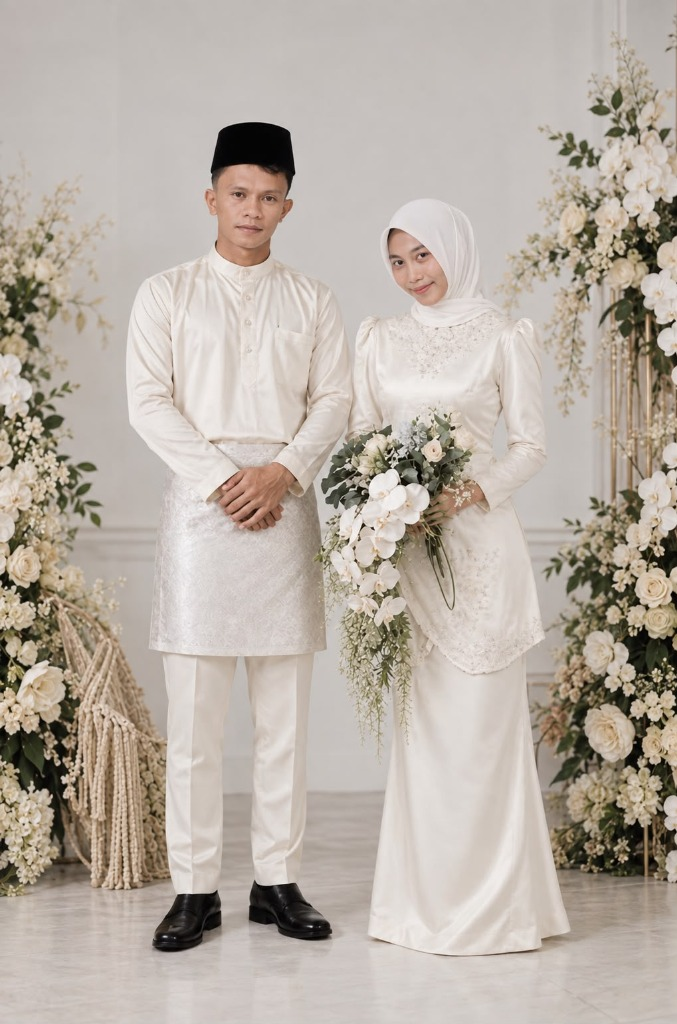
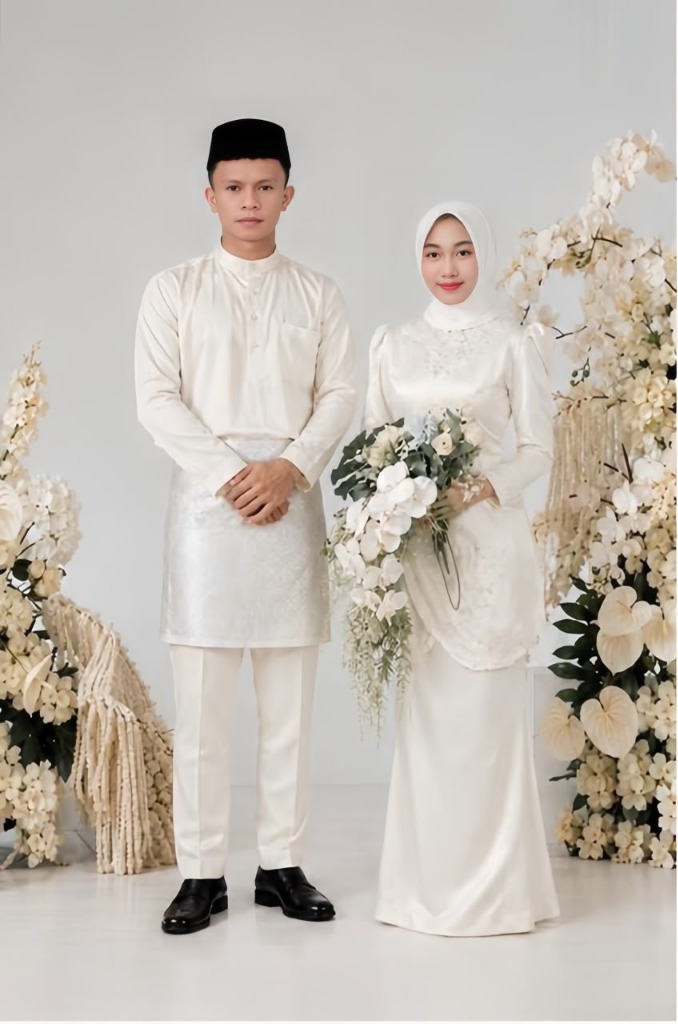
fix: replace couple photos with updated upright standing photo in quote, gallery, and love story sections

diff --git a/index.html b/index.html
@@ -170,7 +170,7 @@
 	<link rel='stylesheet' id='elementor-icons-fa-solid-css'
 		href='https://waktutemu.id/wp-content/plugins/elementor/assets/lib/font-awesome/css/solid.min.css?ver=5.15.3'
 		media='all' />
-	<script src="script.js?v=1.1.3"></script>
+	<script src="script.js?v=1.1.5"></script>
 	<script id="jquery-core-js" src="https://waktutemu.id/wp-includes/js/jquery/jquery.min.js?ver=3.7.1"></script>
 	<script id="jquery-migrate-js"
 		src="https://waktutemu.id/wp-includes/js/jquery/jquery-migrate.min.js?ver=3.4.1"></script>
@@ -194,7 +194,7 @@
 	<link rel="apple-touch-icon" href="images/logo.png" />
 	<meta name="msapplication-TileImage" content="images/logo.png" />
 	<meta name="viewport" content="width=device-width, initial-scale=1.0, viewport-fit=cover" />
-	<link rel="stylesheet" href="style.css?v=1.1.4">
+	<link rel="stylesheet" href="style.css?v=1.1.5">
 
 </head>
 
@@ -476,7 +476,7 @@
 						data-id="13eb101" data-element_type="widget" data-e-type="widget"
 						data-widget_type="image.default">
 						<div class="elementor-widget-container">
-							<img width="1199" height="1500" src="images/photo6.jpg"
+							<img width="1199" height="1500" src="images/photo6.jpg?v=2"
 								class="attachment-full size-full wp-image-67054" alt="Cropped image" />
 						</div>
 					</div>
@@ -758,7 +758,7 @@
 				</div>
 				<div class="elementor-element elementor-element-36596cb5 e-con-full wdsdv-enabled--yes e-flex e-con e-child"
 					data-id="36596cb5" data-element_type="container" data-e-type="container"
-					data-settings="{&quot;background_background&quot;:&quot;slideshow&quot;,&quot;background_slideshow_slide_duration&quot;:1500,&quot;background_slideshow_transition_duration&quot;:1500,&quot;background_slideshow_gallery&quot;:[{&quot;id&quot;:67056,&quot;url&quot;:&quot;images/photo6.jpg&quot;},{&quot;id&quot;:67057,&quot;url&quot;:&quot;images/photo7.jpg&quot;},{&quot;id&quot;:67058,&quot;url&quot;:&quot;images/photo1.jpg&quot;},{&quot;id&quot;:67059,&quot;url&quot;:&quot;images/photo3.jpg&quot;}],&quot;background_slideshow_loop&quot;:&quot;yes&quot;,&quot;background_slideshow_slide_transition&quot;:&quot;fade&quot;}">
+					data-settings="{&quot;background_background&quot;:&quot;slideshow&quot;,&quot;background_slideshow_slide_duration&quot;:1500,&quot;background_slideshow_transition_duration&quot;:1500,&quot;background_slideshow_gallery&quot;:[{&quot;id&quot;:67056,&quot;url&quot;:&quot;images/photo6.jpg?v=2&quot;},{&quot;id&quot;:67057,&quot;url&quot;:&quot;images/photo7.jpg&quot;},{&quot;id&quot;:67058,&quot;url&quot;:&quot;images/photo1.jpg&quot;},{&quot;id&quot;:67059,&quot;url&quot;:&quot;images/photo3.jpg&quot;}],&quot;background_slideshow_loop&quot;:&quot;yes&quot;,&quot;background_slideshow_slide_transition&quot;:&quot;fade&quot;}">
 				</div>
 				<div class="elementor-element elementor-element-7a805b50 e-con-full ajaibfixed e-flex e-con e-child"
 					data-id="7a805b50" data-element_type="container" data-e-type="container">
@@ -1129,7 +1129,7 @@
 								data-id="1e37b57d" data-element_type="widget" data-e-type="widget"
 								data-widget_type="image.default">
 								<div class="elementor-widget-container">
-									<img width="1200" height="1500" src="images/photo6.jpg"
+									<img width="1200" height="1500" src="images/photo6.jpg?v=2"
 										class="attachment-full size-full wp-image-67050" alt="Cropped image" />
 								</div>
 							</div>
@@ -1271,8 +1271,8 @@
 						data-widget_type="gallery.default">
 						<div class="elementor-widget-container">
 							<div class="elementor-gallery__container modern-gallery-grid">
-								<a class="e-gallery-item elementor-gallery-item" href="images/photo6.jpg" data-lightbox="gallery">
-									<img src="images/photo6.jpg" alt="Foto Galeri Andri &amp; Dina 1" class="gallery-photo-img" />
+								<a class="e-gallery-item elementor-gallery-item" href="images/photo6.jpg?v=2" data-lightbox="gallery">
+									<img src="images/photo6.jpg?v=2" alt="Foto Galeri Andri &amp; Dina 1" class="gallery-photo-img" />
 									<div class="elementor-gallery-item__overlay"><span class="gallery-zoom-icon">🔍</span></div>
 								</a>
 								<a class="e-gallery-item elementor-gallery-item" href="images/photo7.jpg" data-lightbox="gallery">

diff --git a/style.css b/style.css
@@ -3440,7 +3440,7 @@ body.cover-locked {
 .elementor-57580 .elementor-element.elementor-element-36596cb5,
 .elementor-element.elementor-element-36596cb5,
 .elementor-element-36596cb5 {
-  background-image: url("images/photo6.jpg") !important;
+  background-image: url("images/photo6.jpg?v=2") !important;
   background-size: cover !important;
   background-position: center top !important;
   min-height: 600px !important;
